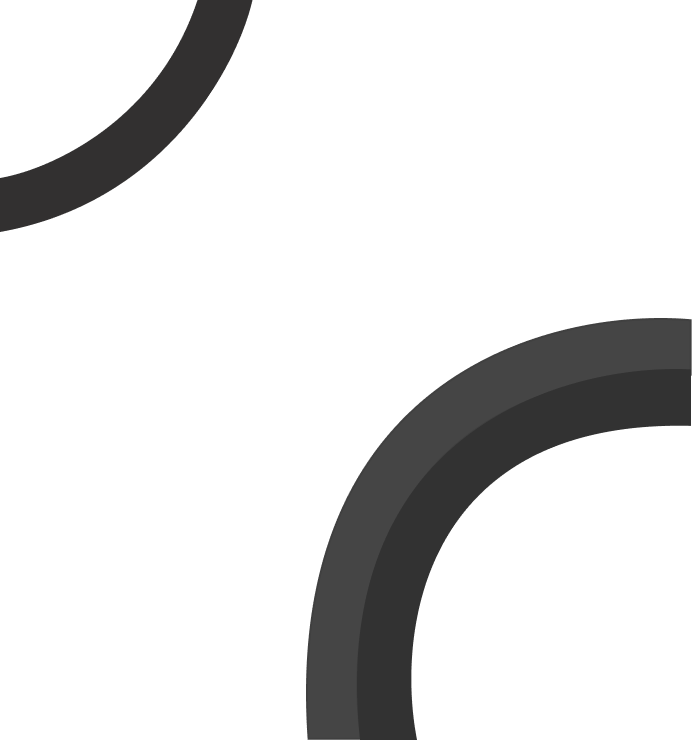
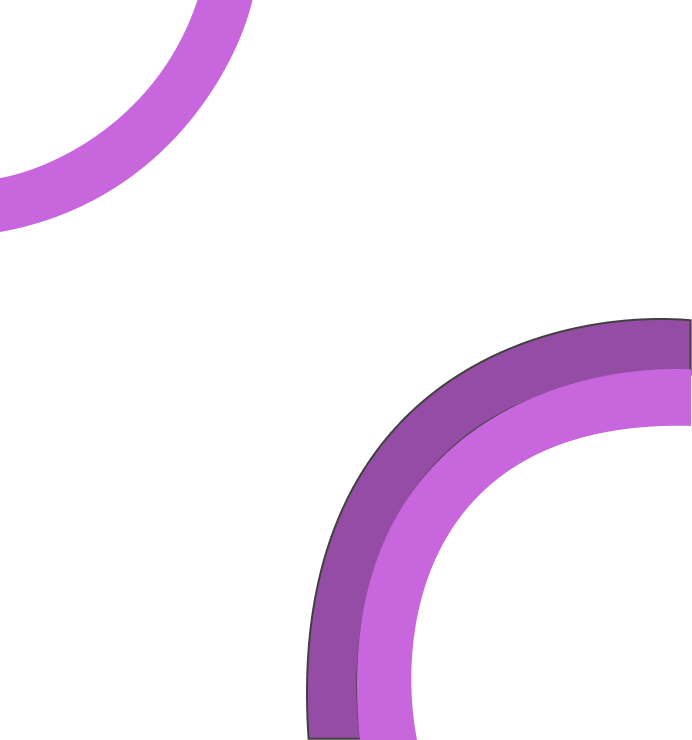
cores

Changed region(s): [[0.4249, 0.4351, 1.0, 1.0], [0.0, 0.0, 0.3642, 0.3108]]

diff --git a/cadastro.css b/cadastro.css
@@ -40,6 +40,7 @@ flex-direction: row;
                 color: #6D6D6D;
             }
             h1{
+                color: #C866DE;
                 font-size: 70px;
                 width: 600px;
             }
@@ -49,7 +50,7 @@ flex-direction: row;
             }
         }
     }
-    .direita{
+    .direita{   
         display: flex;
         flex-direction: column;
         justify-content: center;
@@ -66,7 +67,7 @@ flex-direction: row;
                color: #636363;
             }
             h4{
-                color: #6D6D6D;
+                color: #C866DE;
             }
         }
         form{

diff --git a/login.css b/login.css
@@ -40,6 +40,9 @@ flex-direction: row;
                 color: #6D6D6D;
             }
             h1{
+                span{
+                    color: #C866DE;
+                }
                 font-size: 70px;
                 width: 600px;
             }
@@ -66,7 +69,7 @@ flex-direction: row;
                color: #636363;
             }
             h4{
-                color: #6D6D6D;
+                color: #C866DE;
             }
         }
         form{

diff --git a/login.php b/login.php
@@ -15,7 +15,7 @@
             <div class="elipses"></div>
             <div class="escrita">
                 <h3>SUA LOJA , DO SEU JEITO</h3>
-                <h1>Bem-vindo de volta.</h1>
+                <h1><span>Bem-vindo</span> de volta.</h1>
                 <p>Acesso sua conta para acompanhar seus pedido e descobrir produtos para o seu dia a dia</p>
             </div>
         </div>
